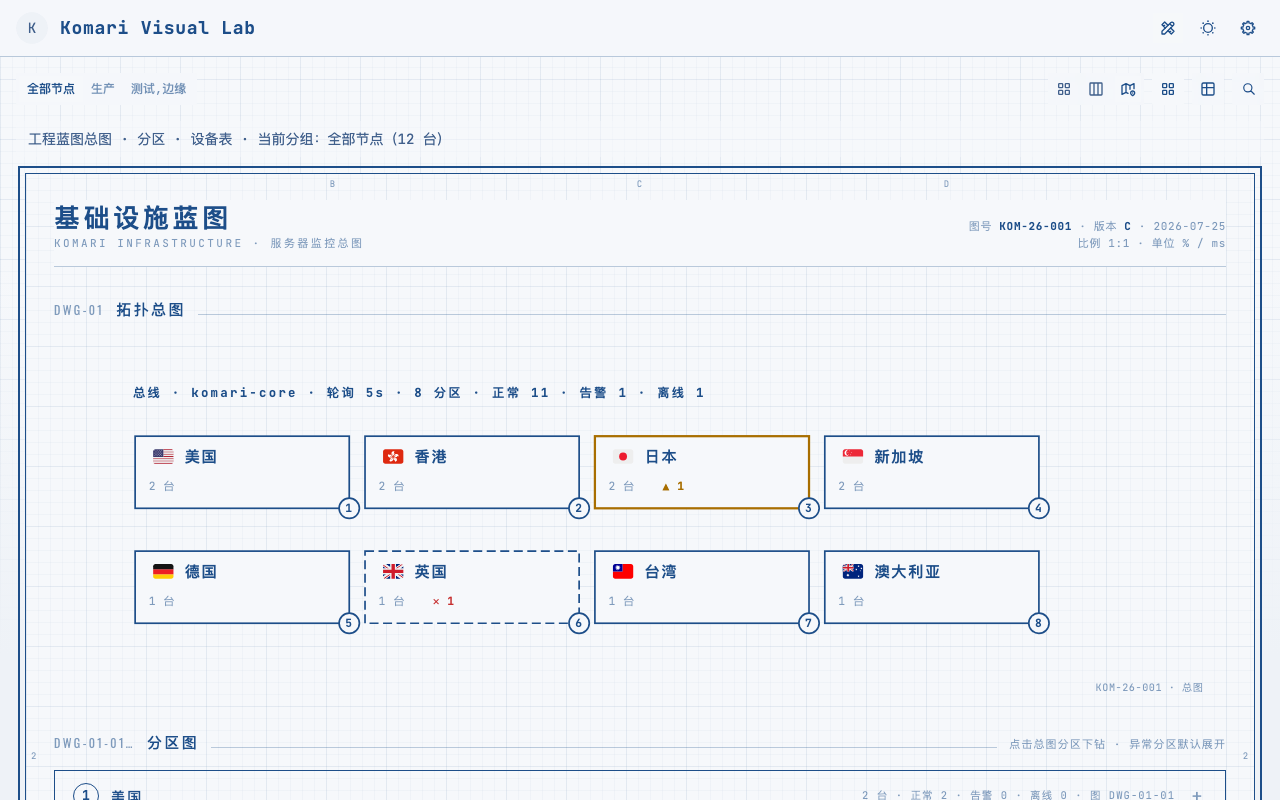
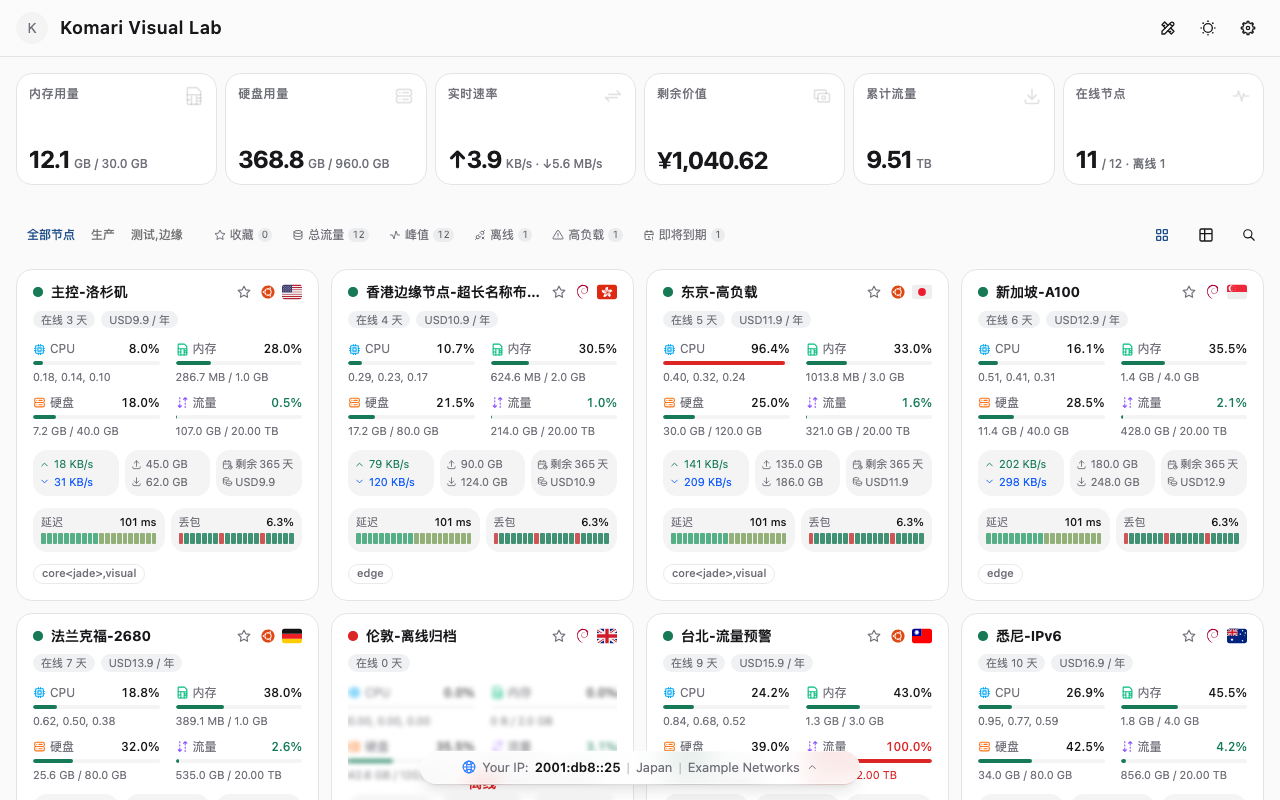
feat(ink): zip 名/ink 预览图 + zinc 状态色 + 默认 4 卡概览（节点/高负载/流量/网速）+ 移除蓝图工具

diff --git a/src/views/HomeView.vue b/src/views/HomeView.vue
@@ -52,7 +52,6 @@ const NodeComparePanel = defineAsyncComponent(() => import('@/components/NodeCom
 const PingMonitorDialog = defineAsyncComponent(() => import('@/components/PingMonitorDialog.vue'))
 const ProviderValuePanel = defineAsyncComponent(() => import('@/components/ProviderValuePanel.vue'))
 const SnapshotExportPanel = defineAsyncComponent(() => import('@/components/SnapshotExportPanel.vue'))
-const BlueprintPanel = defineAsyncComponent(() => import('@/components/blueprint/BlueprintPanel.vue'))
 
 const nodeItemStaggerMs = UI_CONFIG.motion.staggerMs
 const nodeItemStaggerLimit = UI_CONFIG.motion.staggerLimit
@@ -115,7 +114,6 @@ const homeTools = computed<HomeToolOption[]>(() => {
   const tools: HomeToolOption[] = [
     { key: 'nodes', label: '节点', icon: 'tabler:layout-grid', description: '节点卡片与列表视图' },
     { key: 'nodeCompare', label: '对比', icon: 'tabler:columns-3', description: '最多四台节点实时横向对比' },
-    { key: 'blueprint', label: '蓝图', icon: 'tabler:map-2', description: '工程蓝图总图 · 分区 · 设备表' },
   ]
   if (!appStore.privateFeaturesAllowed)
     return tools
@@ -424,7 +422,6 @@ const nodeCardGridClass = computed(() => {
 
     <NodeGeneralCards
       v-if="activeHomeTool === 'nodes'"
-      :nodes="groupNodeList"
       :globe-nodes="groupNodeList"
       :transition-key="appStore.nodeSelectedGroup"
     />
@@ -532,7 +529,6 @@ const nodeCardGridClass = computed(() => {
             <ProviderValuePanel v-else-if="activeHomeTool === 'providerValue'" :nodes="groupNodeList" />
             <SnapshotExportPanel v-else-if="activeHomeTool === 'snapshotExport'" :nodes="groupNodeList" />
             <AuditLogPanel v-else-if="activeHomeTool === 'auditLog'" />
-            <BlueprintPanel v-else-if="activeHomeTool === 'blueprint'" :nodes="groupNodeList" />
             <TransitionGroup
               v-else-if="nodeList.length !== 0 && appStore.nodeViewMode === 'card'"
               :appear="enableNodeCardTransition"

diff --git a/src/styles/main.css b/src/styles/main.css
@@ -26,13 +26,13 @@
   --accent-foreground: #18181b;
   --destructive: #dc2626;
   --destructive-foreground: #f6f8fb;
-  --warning: #a86e00;
+  --warning: #a1a1aa;
   --warning-foreground: #f6f8fb;
-  --success: #157a55;
+  --success: #18181b;
   --success-foreground: #f6f8fb;
-  --info: #1d4e89;
+  --info: #71717a;
   --info-foreground: #f6f8fb;
-  --selection: #1d4e89;
+  --selection: #18181b;
   --signal-1: #157a55;
   --signal-2: #2f9e6b;
   --signal-3: #7ba05b;
@@ -81,9 +81,9 @@
   --accent-foreground: #fafafa;
   --destructive: #ef4444;
   --destructive-foreground: #143d72;
-  --warning: #ffb000;
+  --warning: #71717a;
   --warning-foreground: #143d72;
-  --success: #5fd6a5;
+  --success: #fafafa;
   --success-foreground: #143d72;
   --info: #e9f2ff;
   --info-foreground: #143d72;

diff --git a/src/components/NodeGeneralCards.vue b/src/components/NodeGeneralCards.vue
@@ -754,10 +754,10 @@ const cardGridClass = computed(() => {
 const cardClass = 'group relative z-10 h-full bg-card/75 backdrop-blur-sm md:bg-card md:backdrop-blur-none border-border hover:bg-secondary transition-all'
 const cardPositionClasses = [
   'col-span-4 row-span-1 col-start-1 row-start-1',
-  'col-span-4 row-span-1 col-start-1 row-start-2',
   'col-span-4 row-span-1 col-start-5 row-start-1',
-  'col-span-4 row-span-1 col-start-5 row-start-2',
   'col-span-4 row-span-1 col-start-9 row-start-1',
+  'col-span-4 row-span-1 col-start-1 row-start-2',
+  'col-span-4 row-span-1 col-start-5 row-start-2',
   'col-span-4 row-span-1 col-start-9 row-start-2',
 ]
 const tiledCardPositionClasses = [

diff --git a/tests/visual/fixtures/komari.ts b/tests/visual/fixtures/komari.ts
@@ -363,7 +363,7 @@ export async function installKomariFixture(page: Page, options: VisualFixtureOpt
     generalCardKeys: (options.generalCardKeys ?? (
       options.earthRenderer === 'tiled'
         ? ['onlineNodes', 'remainingValue', 'monthlyCost', 'totalTraffic', 'uploadSpeed', 'downloadSpeed']
-        : ['memory', 'disk', 'netSpeed', 'remainingValue', 'totalTraffic', 'onlineNodes']
+        : ['onlineNodes', 'highLoadNodes', 'totalTraffic', 'netSpeed']
     )).join('\n'),
   }
 

diff --git a/vite.config.ts b/vite.config.ts
@@ -61,7 +61,7 @@ function komariThemeZip(): Plugin {
     apply: 'build',
     closeBundle: async () => {
       const commitHash = getCommitHash()
-      const zipFileName = `blueprint-build-${commitHash}.zip`
+      const zipFileName = `ink-build-${commitHash}.zip`
       const distDir = resolve(__dirname, 'dist')
       const previewPath = resolve(__dirname, 'docs/preview.png')
       const outputPath = resolve(__dirname, zipFileName)

diff --git a/src/stores/app.ts b/src/stores/app.ts
@@ -121,12 +121,10 @@ const BYTE_DECIMALS: ByteDecimalsConfig = {
 }
 
 const DEFAULT_GENERAL_CARD_ORDER: GeneralCardKey[] = [
-  'memory',
-  'disk',
-  'netSpeed',
-  'remainingValue',
-  'totalTraffic',
   'onlineNodes',
+  'highLoadNodes',
+  'totalTraffic',
+  'netSpeed',
 ]
 
 const ALL_GENERAL_CARD_KEYS = [
